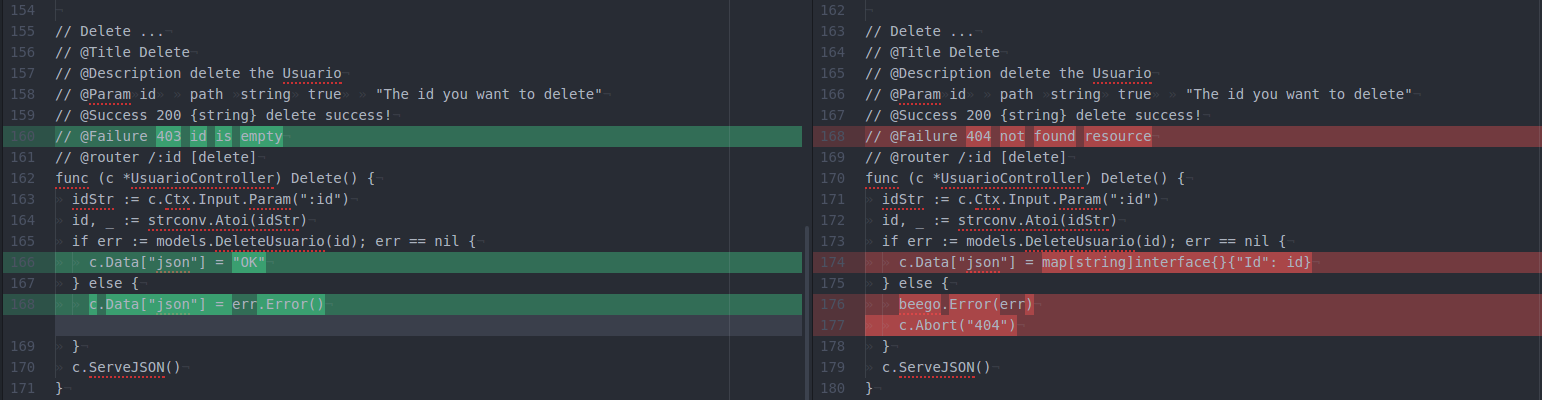
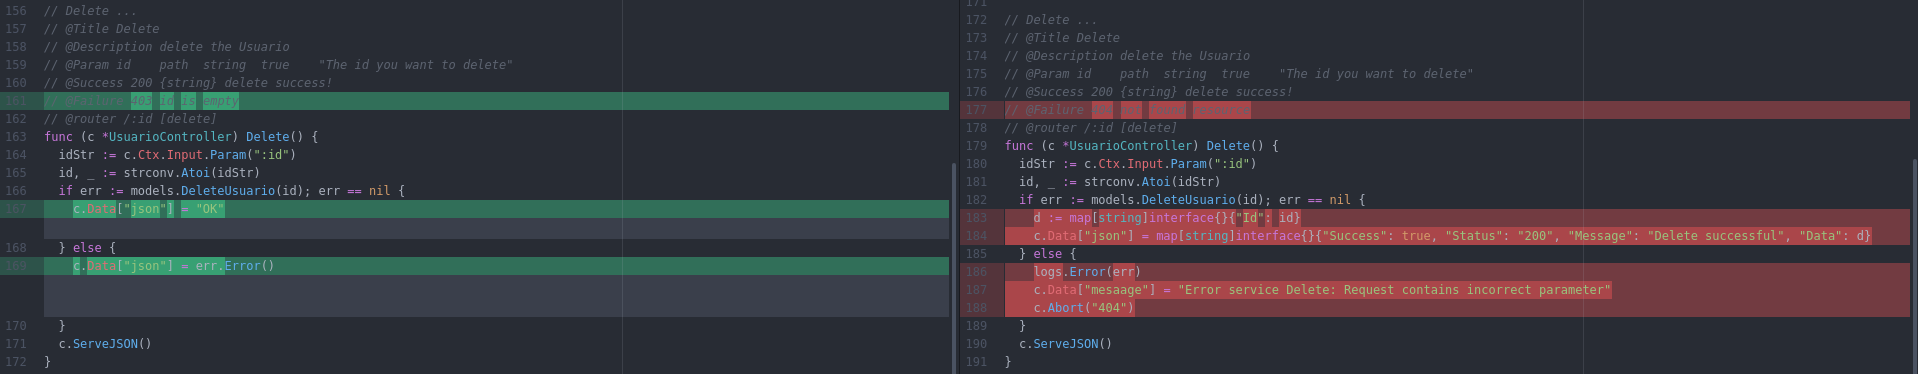
docs:actualización documentacion version 0.0.2

diff --git a/README.md b/README.md
@@ -1,120 +1,218 @@
 # refactor_controller
-
-Este proyecto es un script desarrollado en python 2.7 para realizar los ajustes de los micro servicios desarrollados en el framework Beego de forma masiva y automática.
+Este proyecto es un script desarrollado en python 2.7 para realizar ajustes en la estructura de respuesta JSON y `status code` de los micro servicios desarrollados en el framework `Beego` de forma masiva y automática.
 
 Refactoriza los métodos POST, GETONE, GETALL, PUT, DELETE, en los controladores de una API; especificando el [código de estado HTTP](https://es.wikipedia.org/wiki/Anexo:C%C3%B3digos_de_estado_HTTP) de cada solicitud y retornando siempre un JSON. Esto conforme a los estandares de la Oficina Asesora de Sistemas.
 
-la única restricción que existe, es que **solo realiza los ajustes en micro servicios que nos se han personalizado o modificado en sus líneas**.
+La única restricción que existe, es que **solo realiza los ajustes en micro servicios que no han sido personalizado o modificado a cómo los genera el framework**.
+
+## Procedimiento
+
+### 1 Configurar paquete utils_oas
+
+#### 1.1 Implementar las plantilla de error que se encuentra en [utils_oas](https://github.com/udistrital/utils_oas)
+
+##### 1.1.1 Importar paquete:
+Para esto Editar el `main.go` de la API a Ajustar.
+```golang
+import (
+  "github.com/udistrital/utils_oas/customerrorv2"
+)
+```
+##### 1.1.2 Implementación en `func main()`
+```golang
+beego.ErrorController(&customerrorv2.CustomErrorController{})
+```
+
+##### El **main.go** Lucirá de la siguiente forma:
+```golang
+package main
+
+import (
+    "github.com/astaxie/beego"
+    "github.com/astaxie/beego/orm"
+    "github.com/astaxie/beego/plugins/cors"
+    _ "github.com/jotavargas/debug_beego_request/routers"
+    _ "github.com/lib/pq"
+    "github.com/udistrital/utils_oas/customerrorv2"
+)
+
+func init() {
+    orm.RegisterDataBase("default", "postgres", "postgres://postgres:postgres@127.0.0.1/test?sslmode=disable")
+}
+
+func main() {
+    if beego.BConfig.RunMode == "dev" {
+        beego.BConfig.WebConfig.DirectoryIndex = true
+        beego.BConfig.WebConfig.StaticDir["/swagger"] = "swagger"
+    }
+
+    beego.InsertFilter("*", beego.BeforeRouter, cors.Allow(&cors.Options{
+        AllowOrigins: []string{"*"},
+        AllowMethods: []string{"PUT", "PATCH", "GET", "POST", "OPTIONS", "DELETE"},
+        AllowHeaders: []string{"Origin", "x-requested-with",
+            "content-type",
+            "accept",
+            "origin",
+            "authorization",
+            "x-csrftoken"},
+        ExposeHeaders:    []string{"Content-Length"},
+        AllowCredentials: true,
+    }))
+    beego.ErrorController(&customerrorv2.CustomErrorController{})
+    beego.Run()
+}
+```
+
+### 2 Ejecución de Script para Refactorizar los Controladores
+
+##### 2.1.1  Clonar repositorio
+```golang
+git clone git@github.com:udistrital/refactor_controller.git
+```
+##### 2.1.2 Ejecución del script
+```bash
+#ir al proyecto
+cd refactor_controller
+
+# establecer la version 2
+git checkout version/0.0.2
+
+#como ejecutar (con python 2.7)
+python2.7 main.py -F ruta_controladores_del_api_a_refactoring
+
+#Ejemplo:
+python2.7 main.py -F /home/jjvargass/go/src/github.com/udistrital/api_financiera/controllers
+```
+##### 2.1.3 Indentar e importar package en Controladores *.go
+```bash
+cd ruta_controladores_del_api_a_refactoring
+gofmt -w *.go
+goimports -w *.go
+```
+
+### 3 Conparación de cambios (Antes y Despues)
+Los cambios específicos en cada uno de los microservicios se definirán a continuación.
+
+#### 3.1 Solicitud POST
+<table>
+ <tr>
+  <td colspan="2"><img src="/images/post.png">
+</td>
+ </tr>
+ <tr>
+  <td>A la izquierda el método por defecto creados por el Framewrok. </td>
+  <td>A la derecha el refactor por el Script <a href="https://github.com/udistrital/refactor_controller">refactor_controller</a> </td>
+ </tr>
+</table>
+
+#### 3.2 Solicitud GETONE
+<table>
+ <tr>
+  <td colspan="2"><img src="/images/getOne.png">
+</td>
+ </tr>
+ <tr>
+  <td>A la izquierda el método por defecto creados por el Framewrok. </td>
+  <td>A la derecha el refactor por el Script <a href="https://github.com/udistrital/refactor_controller">refactor_controller</a> </td>
+ </tr>
+</table>
 
 
-A la izquierda el método por defecto en el Framewrok a la derecha el refactor
+#### 3.3 Solicitud GETALL
+<table>
+ <tr>
+  <td colspan="2">
+    <img src="/images/getAll-1.png"><br><br>
+    <img src="/images/getAll-2.png">
+  </td>
+ </tr>
+ <tr>
+  <td>A la izquierda el método por defecto creados por el Framewrok. </td>
+  <td>A la derecha el refactor por el Script <a href="https://github.com/udistrital/refactor_controller">refactor_controller</a> </td>
+ </tr>
+</table>
 
 
-### POST
-![Refactor Metodo Post](/images/post.png)
+#### 3.4 Solicitud PUT
+<table>
+ <tr>
+  <td colspan="2"><img src="/images/put.png">
+</td>
+ </tr>
+ <tr>
+  <td>A la izquierda el método por defecto creados por el Framewrok. </td>
+  <td>A la derecha el refactor por el Script <a href="https://github.com/udistrital/refactor_controller">refactor_controller</a> </td>
+ </tr>
+</table>
 
-### GETONE
-![Refactor Metodo GetOne](/images/getone.png)
-
-### GETALL
-![Refactor Metodo GetAll](/images/getall.png)
-
-### PUT
-![Refactor Metodo Post](/images/put.png)
-
-### DELETE
-![Refactor Metodo Post](/images/delete.png)
-
-## Ejecutar Script
-
-- Clonar repositorio
-
-      git clone https://github.com/jotavargas/refactor_controller.git
-
-- Ingresar al proyecto para ejecutar main.py
-
-      cd refactor_controller
-
-- Ejecutar Script
-
-      # Ejecutar con python 2.7
-      python main.py -F ruta_controladores_del_api_a_refactoring
-
-- Indentar e importar package en Controladores *.go
-
-      cd ruta_controladores_del_api_a_refactoring
-      gofmt -w *.go
-      goimports -w *.go
+#### 3.5 Solicitud DELETE
+<table>
+ <tr>
+  <td colspan="2"><img src="/images/delete.png">
+</td>
+ </tr>
+ <tr>
+  <td>A la izquierda el método por defecto creados por el Framewrok. </td>
+  <td>A la derecha el refactor por el Script <a href="https://github.com/udistrital/refactor_controller">refactor_controller</a> </td>
+ </tr>
+</table>
 
 
-## Refactoring API Controllers
+### 4 Estructura Estandar de Respuestas (JSON)
+A continuación se detalla la estructura JSON que responderá el api, al aplicar el refactor.
 
-Editar el **main.go** de la API a Ajustar. Agregar las plantillas de errores que se encuentran en el repositorio **[utils_oas](https://github.com/udistrital/utils_oas)** de la siguiente forma.
+<table>
+ <tr>
+  <td><img src="/images/jsonUnicoRegistros.png">
+  <td><img src="/images/jsonMultiplesRegistros.png">
+</td>
+ </tr>
+ <tr>
+  <td>Respuesta con único registro </td>
+  <td>Resultado con múltiples registros</td>
+ </tr>
+</table>
 
-- Importar paquete:
 
-      import (
-        "github.com/udistrital/utils_oas/customerror"
-      )
+#### POST
+![Refactor Metodo Post](/images/post_test.png)
 
-- Implementación en **func main()**:
+##### Post Correcto
+<table>
+ <tr>
+  <td><img src="/images/post-correcto-1.png">
+  <td><img src="/images/post-correcto-2.png">
+</td>
+ </tr>
+ <tr>
+  <td>Cuerpo de la respuesta </td>
+  <td>Resultado de la solicitud</td>
+ </tr>
+</table>
 
-      beego.ErrorController(&customerror.CustomErrorController{})
+<br>
 
-- El **main.go** Lucirá de la siguiente forma:
-
-      package main
-
-      import (
-          "github.com/astaxie/beego"
-          "github.com/astaxie/beego/orm"
-          "github.com/astaxie/beego/plugins/cors"
-          _ "github.com/jotavargas/debug_beego_request/routers"
-          _ "github.com/lib/pq"
-          "github.com/udistrital/utils_oas/customerror"
-      )
-
-      func init() {
-          orm.RegisterDataBase("default", "postgres", "postgres://postgres:postgres@127.0.0.1/test?sslmode=disable")
-      }
-
-      func main() {
-          if beego.BConfig.RunMode == "dev" {
-              beego.BConfig.WebConfig.DirectoryIndex = true
-              beego.BConfig.WebConfig.StaticDir["/swagger"] = "swagger"
-          }
-
-          beego.InsertFilter("*", beego.BeforeRouter, cors.Allow(&cors.Options{
-              AllowOrigins: []string{"*"},
-              AllowMethods: []string{"PUT", "PATCH", "GET", "POST", "OPTIONS", "DELETE"},
-              AllowHeaders: []string{"Origin", "x-requested-with",
-                  "content-type",
-                  "accept",
-                  "origin",
-                  "authorization",
-                  "x-csrftoken"},
-              ExposeHeaders:    []string{"Content-Length"},
-              AllowCredentials: true,
-          }))
-          beego.ErrorController(&customerror.CustomErrorController{})
-          beego.Run()
-      }
+##### Post con Parametros Incorrecto
+<table>
+ <tr>
+  <td><img src="/images/post-incorrecto-1.png">
+  <td><img src="/images/post-incorrecto-2.png">
+</td>
+ </tr>
+ <tr>
+  <td>Cuerpo de la respuesta </td>
+  <td>Resultado de la solicitud</td>
+ </tr>
+</table>
 
 
 
-## Estructura JSON
+### 5 Pruebas con JMeter
+Se realizaron diferentes escenarios alternos por cada uno de los servicios expuesto por el API generado en beego.  Adjunto se encontrará el código fuente.
 
-Obtenemos la siguiente estructura cuando el framework a controlado un error de bd
+![Test Jmeter](/images/test_jmeter.png)
+#### [Link Testing JMeter](/generacion_de_apis/src/beegoTodasLasSolicitudes.jmx)
 
-  ![Json1](/images/json01.png)
-
-Obtenemos este Json cuando es desarrollador ha personalizado el servicio y estructura del error en el atributo development
-
-  ![Json2](/images/json02.png)
-
-Obtenemos este Json cuando ingresamos a una servicio  que no existe
-
-  ![Json3](/images/json03.png)
 
 ## Licencia
 
